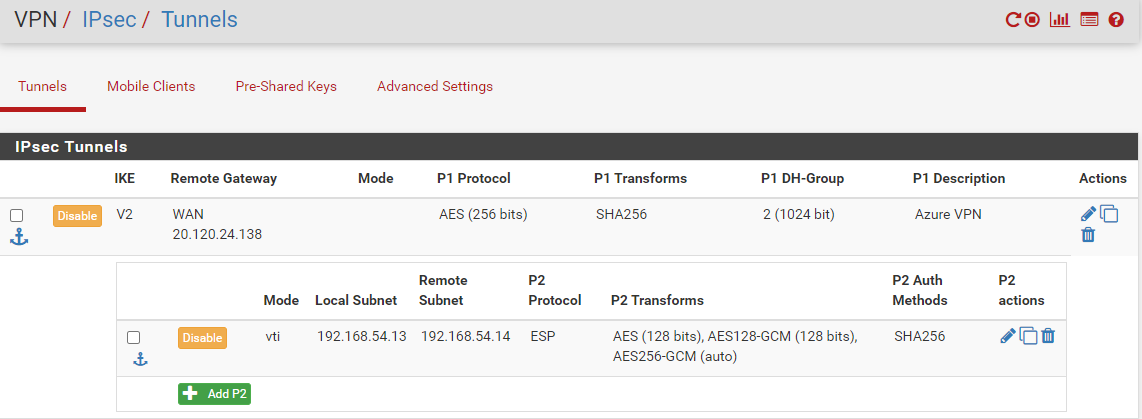
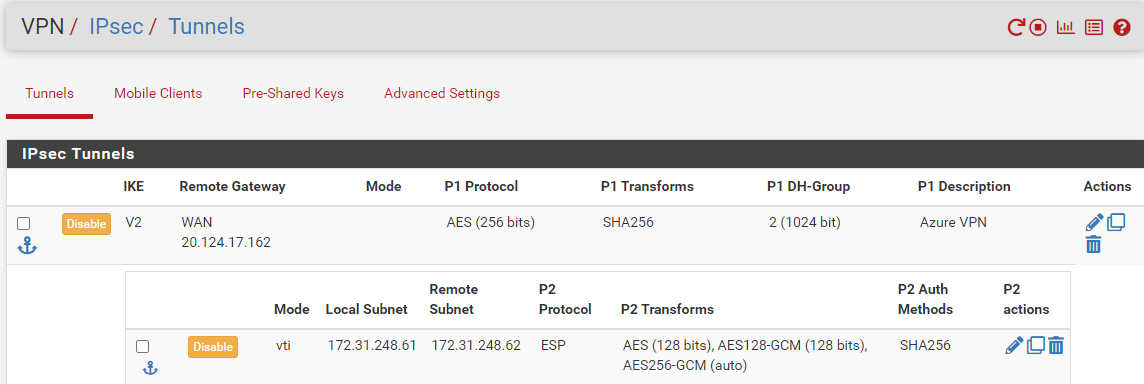
Swapped bgp package with FRR

diff --git a/Home-VPN/README.md b/Home-VPN/README.md
@@ -18,7 +18,7 @@ In my role as Cloud Solution Architect (CSA) at Microsoft I had the need to test
 
 I plan to update this article at a later time with a way for you to deploy as much as possible a similar environment in a more automated way but for now, this first round is meant to document my lab and also help you to build a lab environment similar to mine to give you the capability to demonstrate and validate VPN concepts.
 
-It is also expected that you have some medium to advanced experience already with these network concepts. I will also work on elaborating more around the concepts in this article and adding additional explanation.
+It is also expected that you have some medium to advanced experience already with these network concepts.
   
 ### Architecture
 
@@ -34,13 +34,13 @@ This is a summary of the components:
     1. **Network adapters.** Both, wireless and wired network adapters in my laptop are used. I rely on a Surface Dock for the wired adapter because this laptop does not come with one. Also there's a dependency to stay docked for this lab to work.
     2. **Hyper-V.** Hyper-V role is enabled.
     3. **Network adapters.** 2 virtual switches created, one External Switch (mapped to the wired adapter) and the Default Internal Switch (mapped wireless adapter)
-2. **Windows 10 Hyper-V VM.** Used for connectivity testing. This VM is connected to the Hyper-V internal network
-3. **pfsense firewall Hyper-V VM.** Used to establish IPSec VPN with Azure
+2. **Windows 10 Hyper-V VM.** Used for connectivity testing. This VM is connected to the Hyper-V internal network. You could use a Linux or any other supported OS as long as you have tooling installed for testing (curl, ping, route etc.)
+3. **pfsense firewall Hyper-V VM.** Used to establish IPSec VPN with Azure. I've used pfsense for several years and got used to it although sooner or later I will switch to OpenSense which it is very similar and a lot more investments nowadays than pfsense.
     1. **Network adapters.** Uses 2 network interfaces, connected to the Hyper-V Internal and External Switch respectively
-    2. **Dynamic Routing Package** You'd need to install a package in order to use BGP dynamic routing for the VPN tunnel. You can also do static routing, if desired. In my lab I'm using OpenBGPD. Although I believe it is no longer supported with pfsense. I will work on switching to FRR which is a supported package and update this repo, but functionality and the end result should be the same.
+    2. **Dynamic Routing Package** You will need to install an additional package in order to use BGP dynamic routing for the VPN tunnel. You can also do static routing, if desired. In my lab I'm using FRR although I originally started with OpenBGPD but went out of support
 4. **AT&T Gateway.** My ISP is AT&T and they provide a Gateway/Router that has built-in PAT/NAT features
 5. **Azure Subscription**
-    1. **Hub and Spoke network topology.** An operational Hub VNet with peering to a spoke VNet
+    1. **[Hub and Spoke network topology](https://docs.microsoft.com/azure/architecture/reference-architectures/hybrid-networking/hub-spoke?tabs=cli).** An operational Hub VNet with peering to a spoke VNet
     2. **VPN Gateway.** An Azure Virtual Network Gateway deployed in the Hub VNet. For [routed-based (dynamic routing)](https://docs.microsoft.com/azure/vpn-gateway/vpn-gateway-vpn-faq#what-is-a-route-based-dynamic-routing-gateway) with BGP the [minimum SKU supported is VpnGw1](https://docs.microsoft.com/azure/vpn-gateway/vpn-gateway-about-vpngateways#benchmark).
 
 ## Setup
@@ -62,18 +62,25 @@ This is a summary of the components:
     2. **Windows  10 VM.** This VM NIC is configured the same as pfsense Internal NIC
 4. **pfsense firewall configuration.**
     1. **Interfaces.** These are the configured interfaces. Note that the OPT1 interface is a Virtual Tunnel Interface (VTI) that is created when the IPSec tunnel is configured.
-        ![BGP package - info](./media/pfsense-interfaces.png)
-    2. **OpenBGPD package.** This is the installed package for handling BGP
-        1. **BGP package info**
-        ![BGP package - info](./media/pfsense-bgp-package-info.png)
-        2. **Raw configuration**
-        ![BGP - Raw config](./media/pfsense-bgp-package-raw-config.png)
-        3. **Settings**
-        ![BGP - gral settings](./media/pfsense-bgp-package-gral-settings.png)
-        4. **Neighbors**
-        ![BGP - neighbors](./media/pfsense-bgp-package-neighbors.png)
-        5. **Groups**
-        ![BGP - groups](./media/pfsense-bgp-package-groups.png)
+        ![pfsense - internaces](./media/pfsense-interfaces.png)
+    2. **FRR package.** This is the installed package for handling BGP
+        1. **FRR package info**
+        ![FRR package - info](./media/pfsense-bgp-package-info.png)
+        2. **Global Settings.** Here you enable FRR globally and set the Router ID which is the pfsense LAN interface IP.
+        ![FRR - Global Settings](./media/pfsense-bgp-package-global-settings.png)
+        3. **Prefix lists.** Here we create a prefix list that is required to allow inbound and outbound communications between the BGP peers. This list will be used later in step 6. Without this list the BGP message updates would be discarded despite the BGP peers established a connection.
+        ![FRR - prefix-lists](./media/pfsense-bgp-package-prefix-lists.png)
+        4. **BGP Router Options.** Here we set the AS used by this BGP peer instance. The Router ID is inherited from the Global settings already configured in step #2.
+        ![FRR - Router Options](./media/pfsense-bgp-package-router-options.png)
+        5. **BGP Network Distribution.** Here we configured the neworks that will be advertised by this BGP instance. If you wanted to advertise pfsense static and kernel routes including 0.0.0.0/0 for force tunneling you would enable IP4 in the Redistribute Kernel routing table/pfSense static routes drop down option and leave the Networks to Distribute field blank. Otherwise we specify the specific network(s) we want to advertized like the image below
+        ![BGP - Network Distribution](./media/pfsense-bgp-package-network-distribution.png)
+        6. **BGP Neighbors.** Here you add a neighbor and configure its settings. Name/Address: The Azure VNet Gateway BGP peer IP address.
+        ![FRR - BGP Neighbors General options](./media/pfsense-bgp-package-neighbors-general-options.png)
+        Remote AS: The Azure VNet Gateway ASN
+        ![FRR - BGP Neighbors Basic options](./media/pfsense-bgp-package-neighbors-basic-options.png)
+        Prefix List Filter: The previously created Prefix lists in step #3.
+        ![FRR - BGP Neighbors Peer filtering](./media/pfsense-bgp-package-peer-filtering.png)
+
 
     3. **Firewall rules.** For testing purposes overall it is very much open and not locked down
         1. **Rules - WAN** Key traffic to be allowed to the external interface IP is BGP (TCP & UDP:179) as well IPSec NAT-T (UDP:4500)
@@ -85,28 +92,30 @@ This is a summary of the components:
     4. **IPSec config.**
         1. **IPSec - Summary**
         ![IPSec - Summary](./media/pfsense-ipsec-summary.png)
-        2. **IPSec - Phase 1**
+        2. **IPSec - Phase 1.** 
+        Remote Gateway. The Azure VNet Gateway Public IP
+        My Identifier. The Public IP associated to my Home Router
         ![IPSec - Phase 1](./media/pfsense-ipsec-p1-1.png)
-        ![IPSec - Phase 1](./media/pfsense-ipsec-p1-2.png)
         3. **IPSec - Phase 2**
+        Mode: Routed as the VNet Gateway type is also route-based.
+        Local Network: 172.31.248.61, because the BGP peer IP from Azure is 172.31.248.62 and it is a route-based VPN we need an /30 transit network (2 IP addresses) as the networks will be learned by BGP. If we did not use BGP, we would then specify manually remote networks here.
+        Remote Network: The BGP peer IP from Azure, 172.31.248.62
         ![IPSec - Phase 2](./media/pfsense-ipsec-p2-1.png)
-        ![IPSec - Phase 2](./media/pfsense-ipsec-p2-2.png)
 
 5. **AT&T Gateway.** Here is where you create custom services to configure the required PAT/NAT (AKA port forwarding) for the VPN, then assign to a device in your network, in this case the pfsense firewall VM (external IP, 192.168.11.10). In this way the Gateway does *not* need to be configured in bridge mode/pass through to allocate the public IP to the pfsense firewall VM external adapter. Only the 2 ports below are required to forward or allow the pfsense firewall terminate the VPN connection.
 ![AT&T Router - Custom Services](./media/ATT-GW-NAT-1.png)
 ![AT&T Router - Assigning custom services](./media/ATT-GW-NAT-2.png)
 
 6. **Azure Hub Spoke network.**
-    1. Below is the Hub VNet address space and peering with the spoke VNet
+    1. Hub VNet address space and peering with the spoke VNet
     ![Hub VNet- address space](./media/vnet-hub-eastus-address-space.png)
     ![Hub VNet- peerings](./media/vnet-hub-eastus-peerings.png)
-    2. Below is VPN Gateway configuration
+    2. VPN Gateway configuration
     ![Hub VNet- address space](./media/vpg-gw-config.png)
-    3. Below is Local Network Gateway configuration
+    3. Local Network Gateway configuration
     ![Hub VNet- address space](./media/lng-gw-config.png)
-    4. Below is VPN Connection configuration and status
+    4. VPN Connection configuration
     ![Hub VNet- address space](./media/vpn-connection-config.png)
-    ![Hub VNet- peerings](./media/vpn-connection-status.png)
 
 ## Functionality checks and validation
 
@@ -115,7 +124,6 @@ This is a summary of the components:
 1. **pfsense IPSec Tunnel - Status**
 We can see below the tunnel is established successfully and the IPSec security associations (SAs) between the VPN GW public IP (20.120.24.138) and the pfsense external IP (192.168.11.10)
 ![IPSec - Status 1](./media/pfsense-ipsec-status-1.png)
-![IPSec - Status 2](./media/pfsense-ipsec-status-2.png)
 
 2. **Azure VPN gateway connection - Status**
 We can see below the IPSec connection is established successfully
@@ -123,19 +131,16 @@ We can see below the IPSec connection is established successfully
 
 ### Routes review
 
-1. **pfsense BGP dynamic routing - status**
-
-We can see below the pfsense firewall talks BGP with the Azure VPN gateway (AS 65515). We also see the pfsense firewall learns the routes advertised from the Azure VPN Gateway (BGP Peer IP 192.168.54.14); the **Hub VNet address spaces** (192.168.54.0/23 and 192.168.56.0/23), the **Spoke VNet** (10.50.0.0/24)
+1. **pfsense BGP dynamic routing - status.** We can see below that pfsense successfully retrieves dynamic routing from the Azure VNet Gateway (AS 65515, BGP Peer IP 172.31.248.62); the **Hub VNet address space** (172.31.248.0/22), and  the **Spoke VNet** (10.50.0.0/24).
 
 ![BGP status - 1](./media/pfsense-bgp-status-1.png)
 ![BGP status - 2](./media/pfsense-bgp-status-2.png)
-![BGP status - 3](./media/pfsense-bgp-status-3.png)
 
-2. **Azure VPN gateway connection - Status**
+2. **Azure VPN gateway connection - Status.** We can see below that the Azure VNet Gateway  successfully retrieves dynamic routing from pfsense (AS 65505, BGP Peer IP 192.168.1.1); the **On-prem network** 192.168.1.0/24.
 
-![VPN BGP - Status](./media/vnet-hub-eastus-peerings.png)
+![VPN BGP - Status](./media/vpn-bgp-status.png)
 
-**Alternative Azure VPN Gateway BGP check** use [Portal](https://docs.microsoft.com/en-us/azure/vpn-gateway/bgp-diagnostics), PowerShell or CLI. You can also find a PowerShell script where you can dump BGP routes for both VPN and ExpressRoute Gateways, consult: [Verify BGP information on Azure VPN and ExpressRoute Gateways](https://github.com/dmauser/Lab/tree/master/VNG-BGP-Info).
+**Alternative Azure VPN Gateway BGP check.** Use [Portal](https://docs.microsoft.com/en-us/azure/vpn-gateway/bgp-diagnostics), PowerShell or CLI. You can also find a PowerShell script where you can dump BGP routes for both VPN and ExpressRoute Gateways, consult: [Verify BGP information on Azure VPN and ExpressRoute Gateways](https://github.com/dmauser/Lab/tree/master/VNG-BGP-Info).
 
 ## Acknowledgments
 
